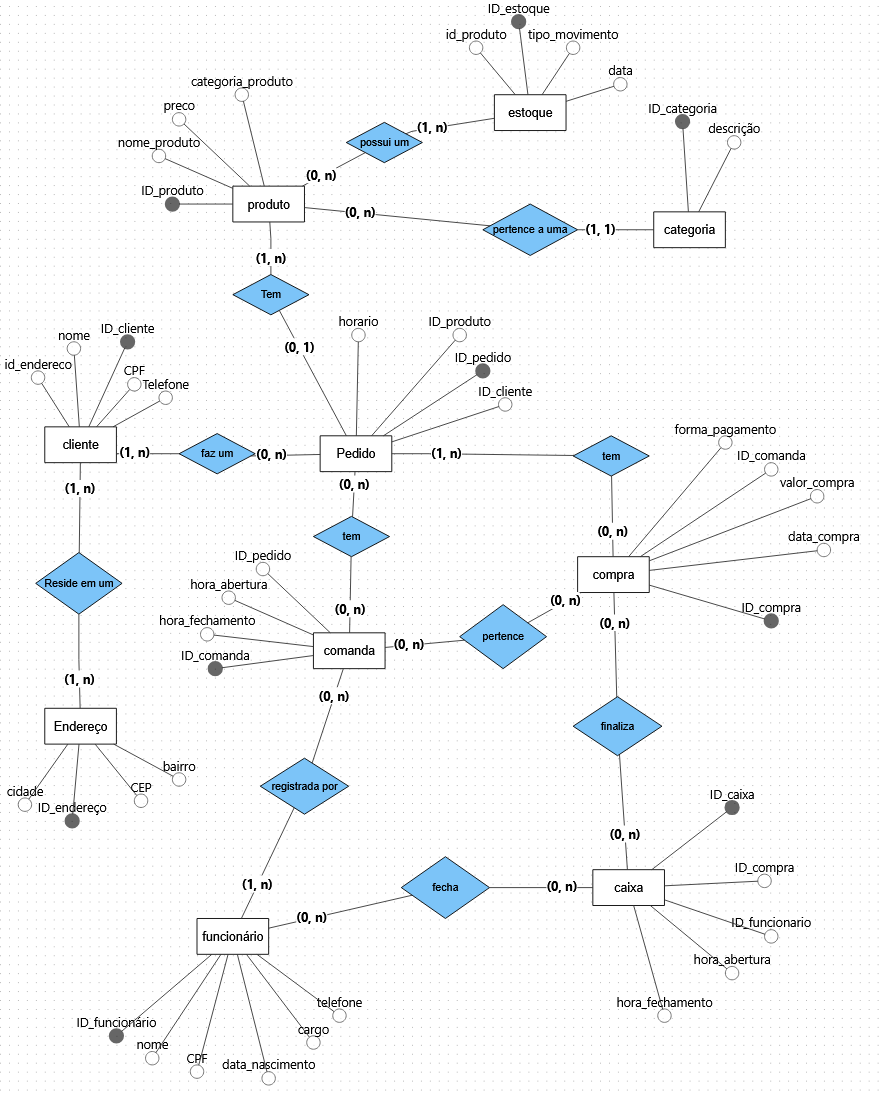
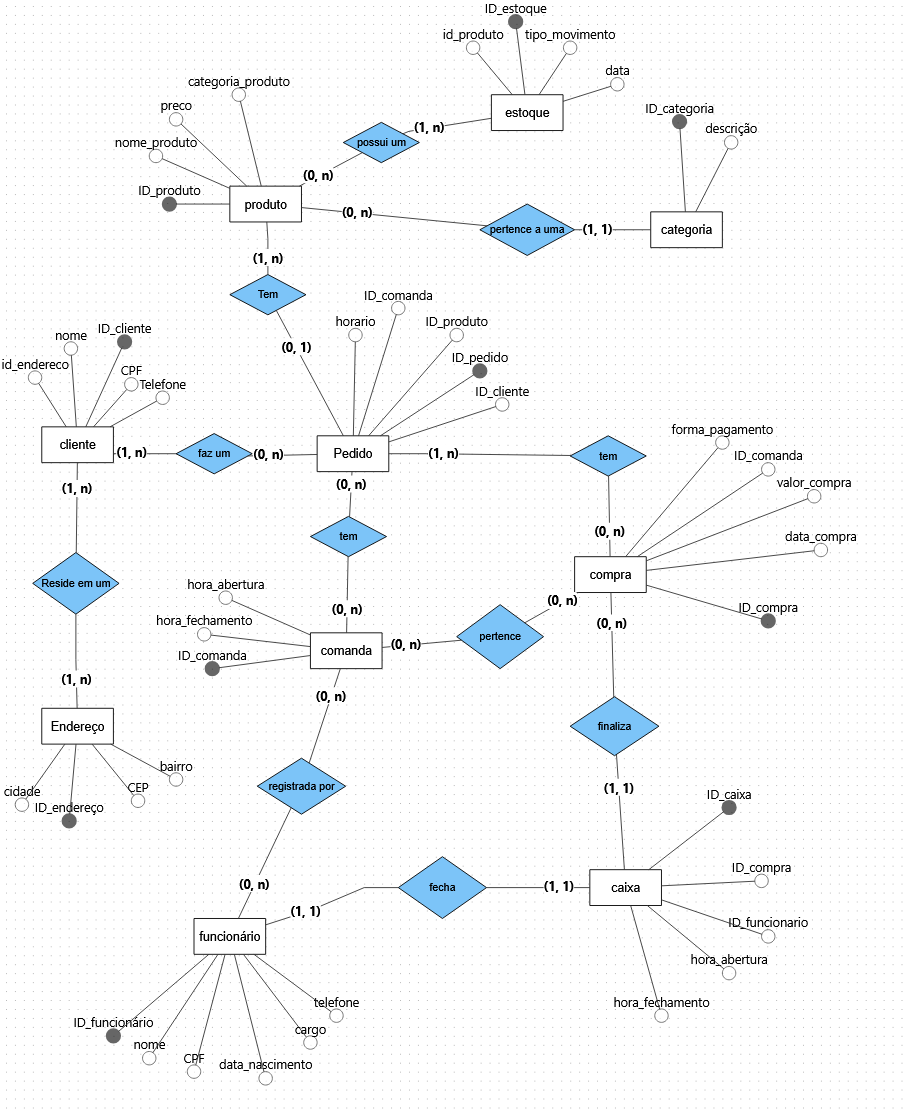
Toques finais

diff --git a/Dicionario.html b/Dicionario.html
@@ -286,9 +286,9 @@
     </table>
     </section>
 
-    <section id="Item_comanda" class="Tabela">
+    <section id="Pedido" class="Tabela">
     <div class="Topo">
-    <h3>Item_comanda</h3><p>tabela de registro dos itens incluídos nas comandas.</p>
+    <h3>Pedido</h3><p>tabela de registro dos itens incluídos nas comandas.</p>
     </div>
     <table>
         <thead>
@@ -302,8 +302,8 @@
             <tr><td><code>id_pedido</code></td><td><code>Identificador único do pedido</code></td><td><code>Obrigatório, chave primária, gerado pelo sistema</code></td></tr>
             <tr><td><code>id_cliente</code></td><td><code>Identificador do cliente que realizou o pedido</code></td><td><code>Obrigatório, chave estrangeira associada ao cliente</code></td></tr>
             <tr><td><code>id_produto</code></td><td><code>Identificador do produto incluído no pedido</code></td><td><code>Obrigatório, chave estrangeira associada ao produto</code></td></tr>
-            <tr><td><code>horario</code></td><td><code>Horário em que o pedido foi realizado</code></td><td><code>Obrigatório, gerado automaticamente</code></td></tr>
             <tr><td><code>id_comanda</code></td><td><code>Identificador da comanda associada ao pedido</code></td><td><code>Obrigatório, chave estrangeira associada à comanda</code></td></tr>
+            <tr><td><code>horario</code></td><td><code>Horário em que o pedido foi realizado</code></td><td><code>Obrigatório, gerado automaticamente</code></td></tr>
         </tbody>
     </table>
     </section>
@@ -383,7 +383,6 @@
         </thead>
         <tbody>
             <tr><td><code>id_comanda</code></td><td><code>Identificador único da comanda</code></td><td><code>Obrigatório, chave primária, gerado pelo sistema</code></td></tr>
-            <tr><td><code>id_pedido</code></td><td><code>Identificador único do pedido</code></td><td><code>Obrigatório, chave estrangeira, gerado pelo sistema</code></td></tr>
             <tr><td><code>hora_abertura</code></td><td><code>Data e hora de abertura da comanda</code></td><td><code>Obrigatório, gerado automaticamente</code></td></tr>
             <tr><td><code>hora_fechamento</code></td><td><code>Data e hora de fechamento da comanda</code></td><td><code>Preenchido ao encerrar a conta/comanda</code></td></tr>
         </tbody>

diff --git a/README.md b/README.md
@@ -164,6 +164,7 @@ Os exemplos de valores são fictícios, apenas para ilustrar o tipo de informaç
 | :--- | :--- | :--- |
 | id_pedido | Identificador único do item do pedido | Obrigatório, chave primária, gerado pelo sistema |
 | id_produto | Identificador do produto incluído no item do pedido | Obrigatório, chave estrangeira associada ao produto |
+| id_comanda | Identificador da comanda à qual o item pertence | Obrigatório, chave estrangeira associada à comanda |
 | id_cliente | Identificador do cliente que fez o pedido | Obrigatório, chave estrangeira associada ao cliente |
 | horario | Horário do pedido | Obrigatório, gerado automaticamente |
 
@@ -197,7 +198,6 @@ Os exemplos de valores são fictícios, apenas para ilustrar o tipo de informaç
 | Atributo | Descrição | Regra de negócio associada |
 | :--- | :--- | :--- |
 | id_comanda | Identificador único da comanda | Obrigatório, chave primária, gerado pelo sistema |
-| id_pedido | Identificador único do pedido | Obrigatório, chave estrangeira, gerado pelo sistema |
 | hora_abertura | Data e hora de abertura da comanda | Obrigatório, gerado automaticamente |
 | hora_fechamento | Data e hora de fechamento da comanda | Preenchido ao encerrar a conta/comanda |
 
